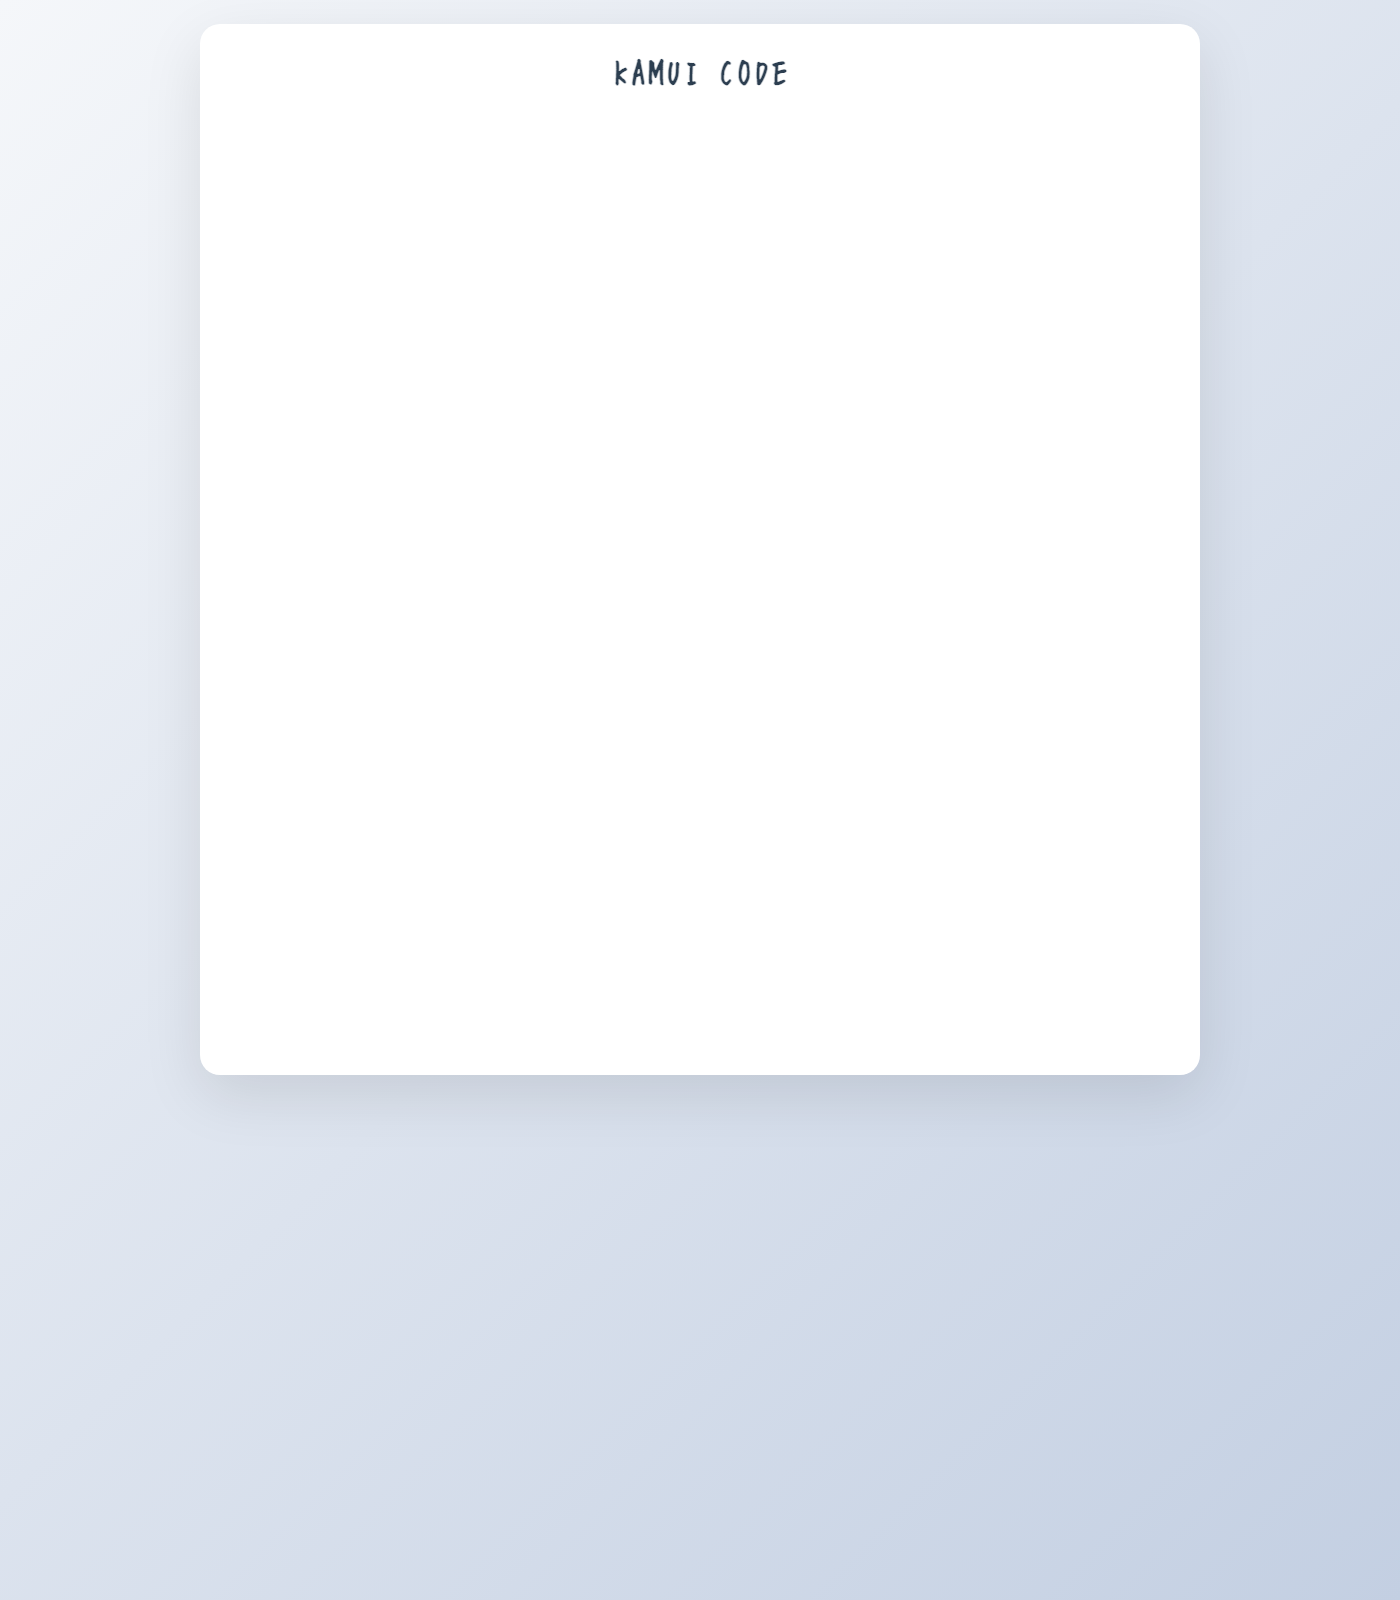
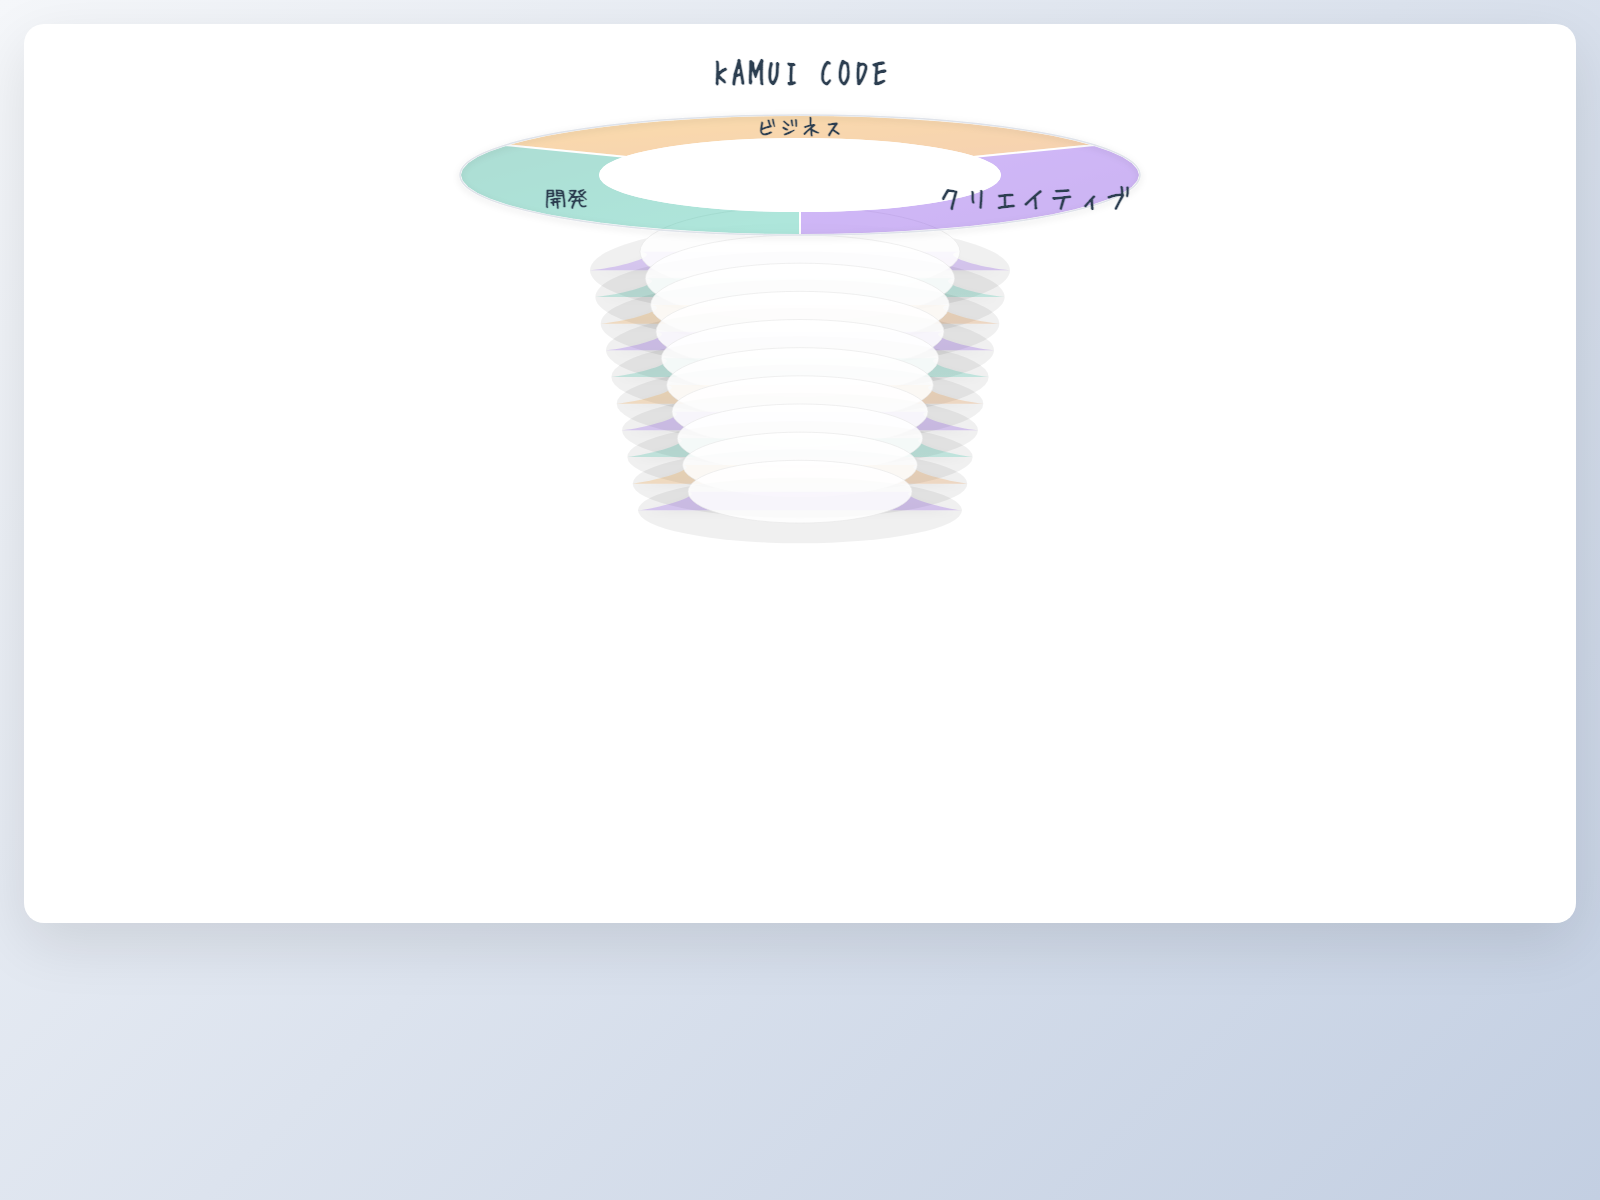
c

Changed region(s): [[0.0, 0.0, 1.0, 0.7708]]

diff --git a/static/marketing-wheel_trapezoids.html b/static/marketing-wheel_trapezoids.html
@@ -13,7 +13,7 @@
     h1 { text-align: center; font-size: 2.2em; margin-bottom: 8px; color: #2c3e50; font-weight: 800; font-family: var(--hand); }
     .top-wheel { display: flex; justify-content: center; margin-top: 8px; }
     .wheel { width: 1050px; height: 160px; position: relative; overflow: visible; }
-    .stack { display: flex; justify-content: center; margin-top: 2px; }
+    .stack { display: flex; justify-content: center; margin-top: -140px; }
     .stack-svg { width: 700px; height: 780px; display: block; }
     /* wheel center */
     .center-text { font-family: var(--hand); font-size: 1.6em; color: #2c3e50; font-weight: 900; letter-spacing: 0.6px; text-align: center; }
@@ -64,7 +64,7 @@
             <feDropShadow dx="0" dy="4" stdDeviation="6" flood-color="#000" flood-opacity="0.18"/>
           </filter>
         </defs>
-        <g id="traps" transform="translate(525,8)"></g>
+        <g id="traps" transform="translate(525,-40)"></g>
       </svg>
     </div>
   </div>
@@ -158,12 +158,28 @@
     }
     const N=10, startRxTop=240, startRxBot=315, step=8, FR_H=28, GAP=12; // restore larger width (x1.5 of 160/210)
     const cols=['url(#purpleGrad)','url(#tealGrad)','url(#orangeGrad)'];
+    const labelsBottomUp = ['LLM','画像生成AI','動画生成AI','ワールド生成AI'];
     for(let i=0;i<N;i++){
       const rxT = Math.max(80, startRxTop - i*step);
       const rxB = Math.max(110, startRxBot - i*step);
       const y = i*(FR_H+GAP) + 10;
       const g = frustum(traps, rxT, rxB, FR_H, cols[i%cols.length]);
       g.setAttribute('transform', `translate(0,${y})`);
+      // Label the bottom 4 layers from bottom → top as requested
+      if(i >= N-4){
+        const idx = (N-1) - i; // 0..3 from bottom
+        const text = document.createElementNS('http://www.w3.org/2000/svg','text');
+        text.setAttribute('x','0');
+        text.setAttribute('y', String(FR_H/2 + 4));
+        text.setAttribute('text-anchor','middle');
+        text.setAttribute('dominant-baseline','middle');
+        text.setAttribute('font-family','HuiFont, var(--hand)');
+        text.setAttribute('font-size','20');
+        text.setAttribute('font-weight','800');
+        text.setAttribute('fill','#2c3e50');
+        text.textContent = labelsBottomUp[idx] || '';
+        g.appendChild(text);
+      }
     }
   </script>
 </body>
